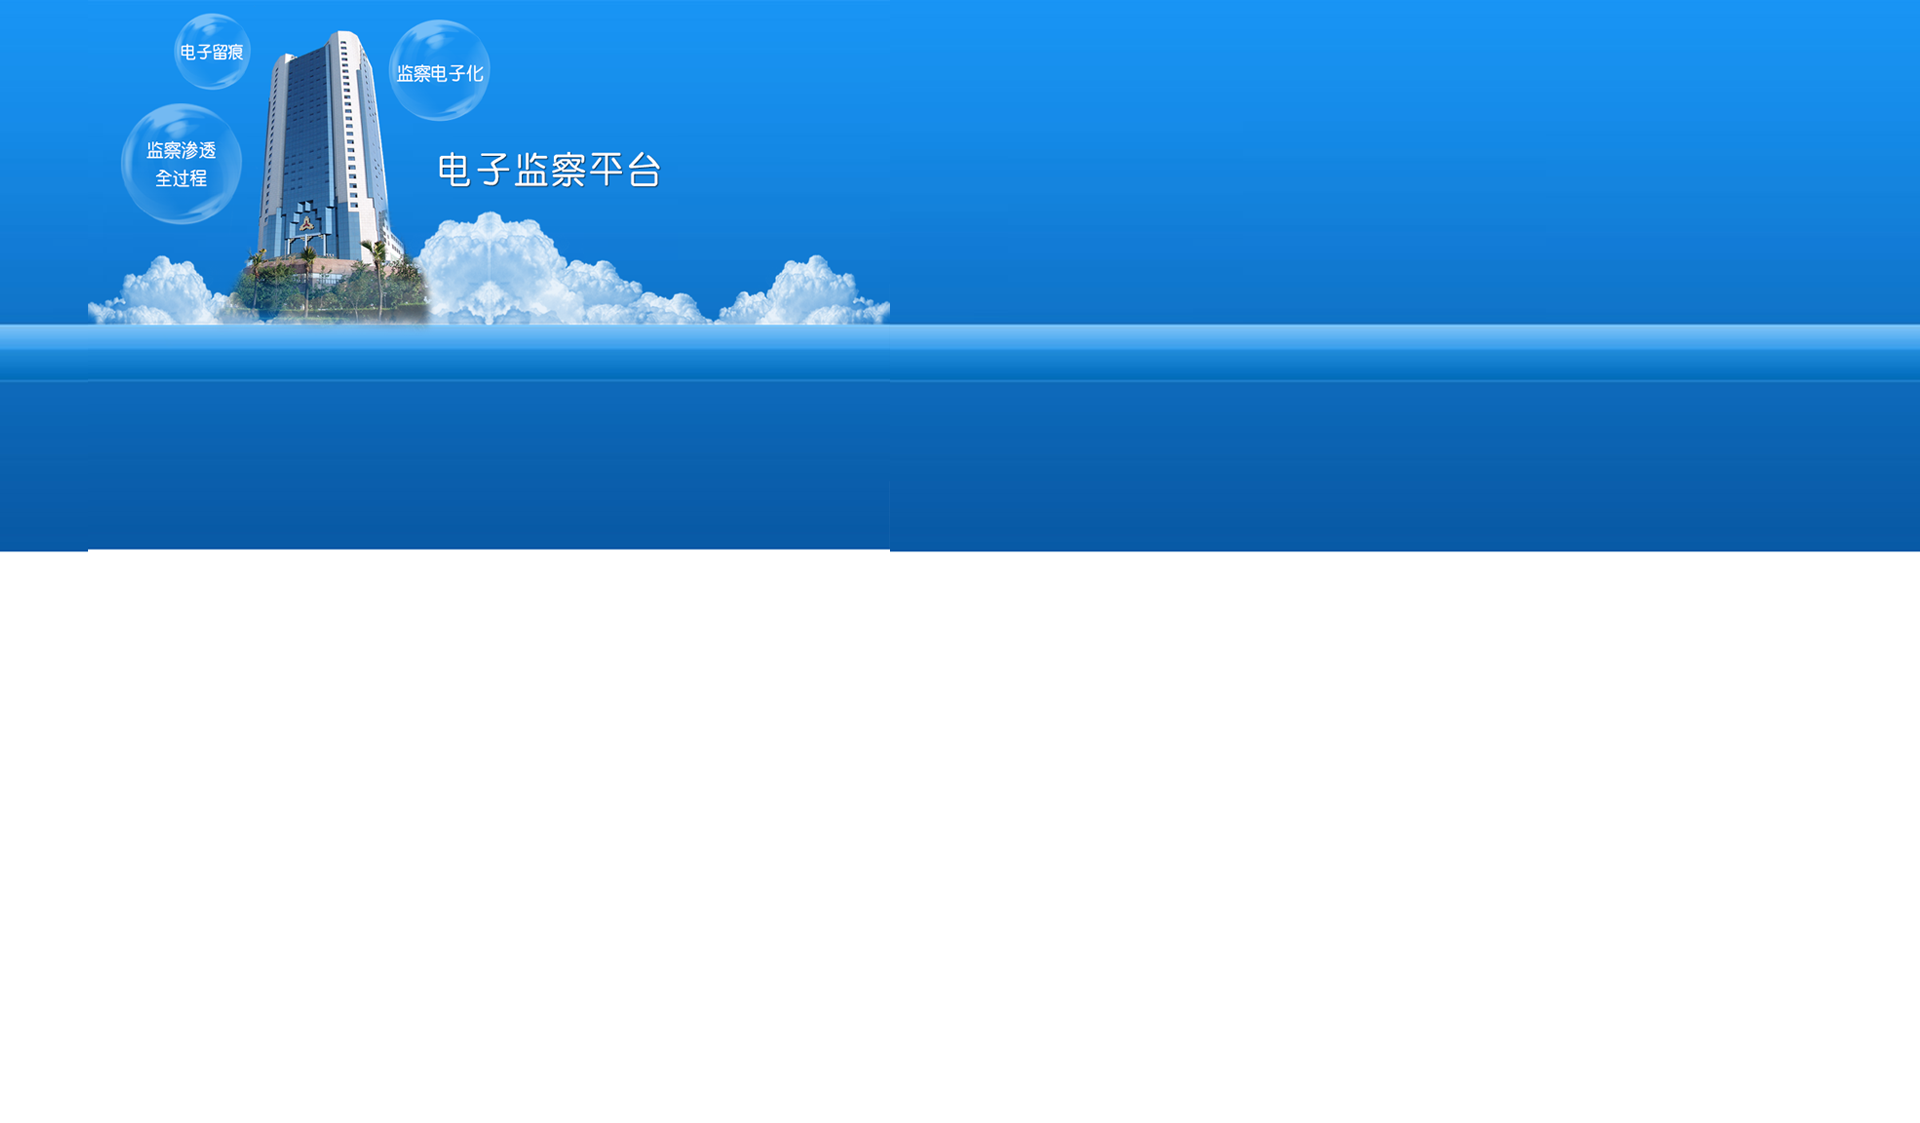
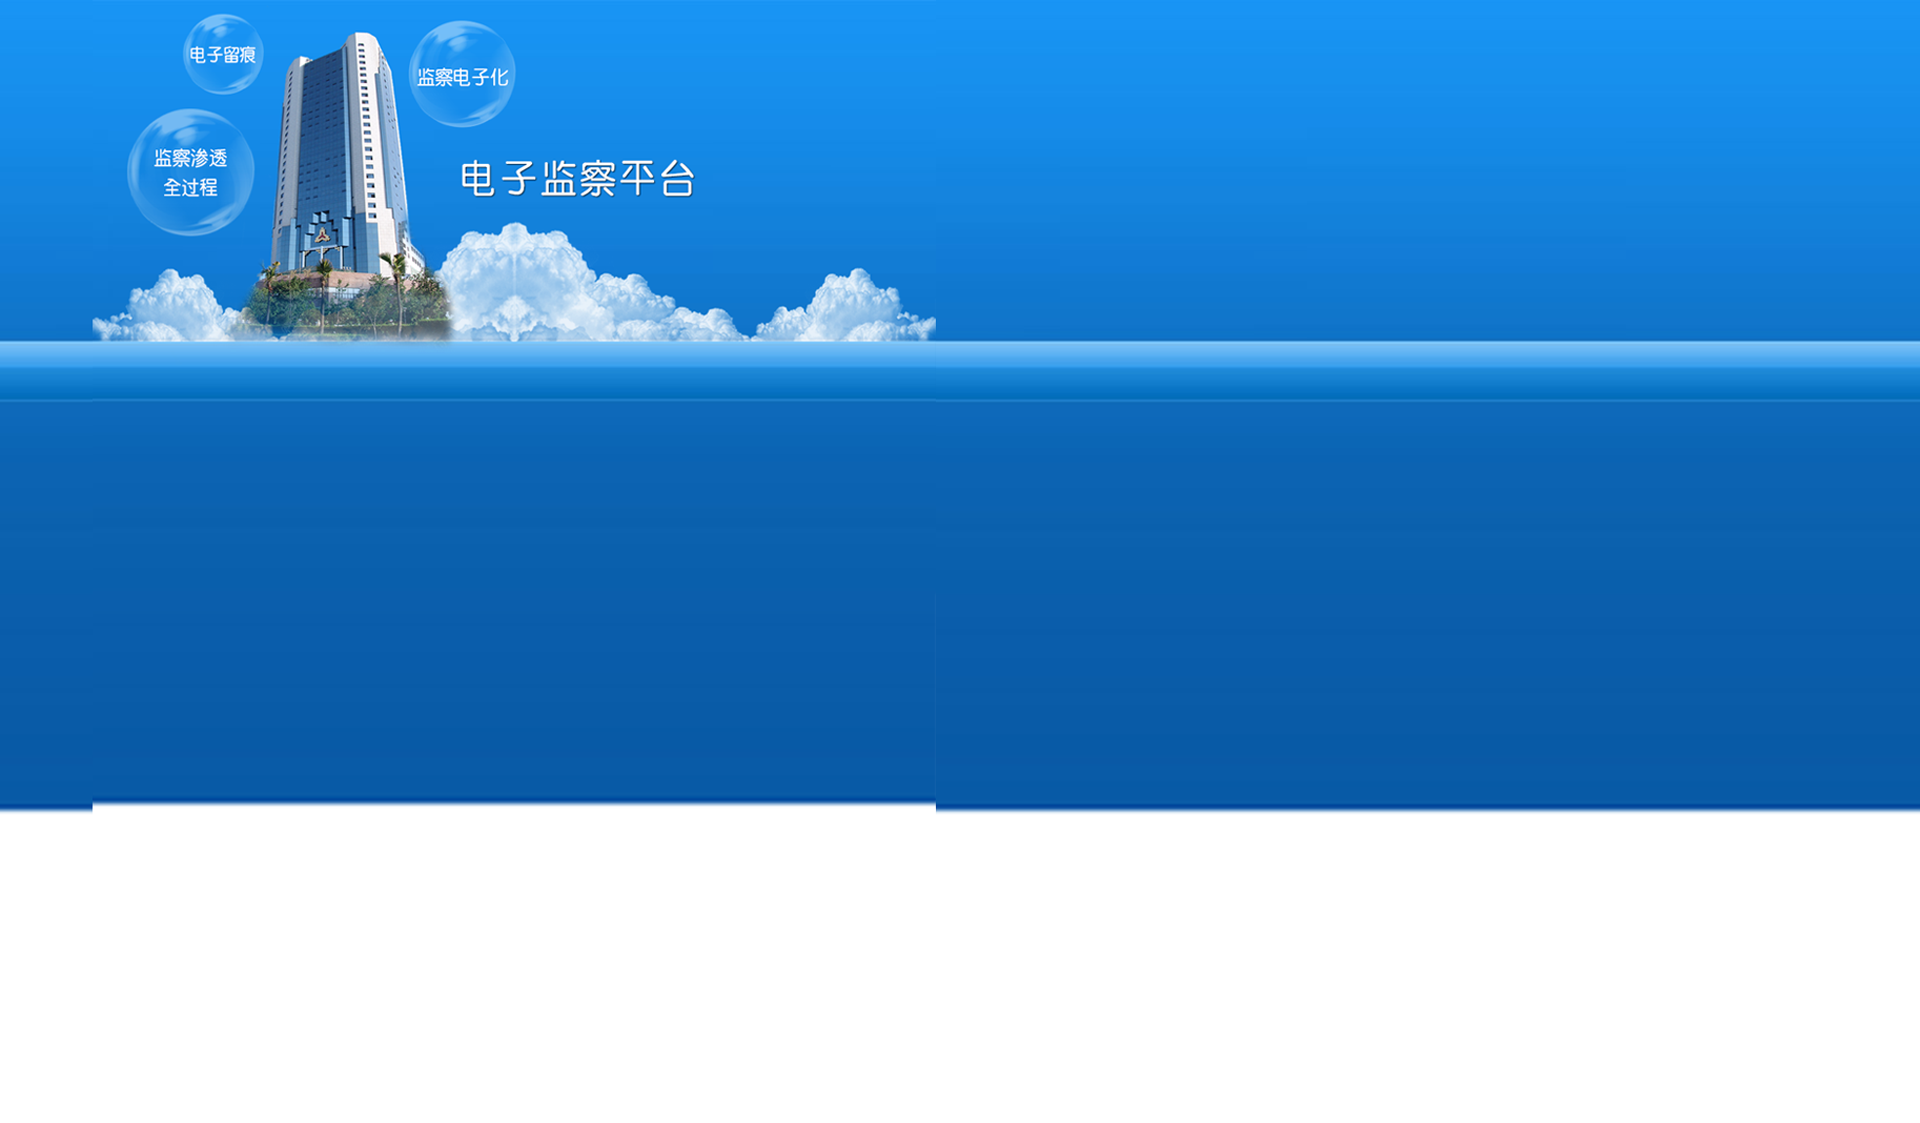
首页 1366*768分辨率适应

diff --git a/src/main/webapp/page/masterpage.html b/src/main/webapp/page/masterpage.html
@@ -32,7 +32,7 @@
 	});
 </script>
 </head>
-<body style="overflow-x:hidden; ">
+<body style="overflow-x:hidden; background-image: url(/supervision/source/images/master-bg.png)">
     <div id="main">
 		 <div id="header" style="height:120px;background-color: #1894f4;">
 			<div class="fl head-logo yw-center" style="background-color: #1894f4;  /* for FireFox */ *background:#1894f4; /* for IE7 */_background:#1894f4; /* for IE6 */">
